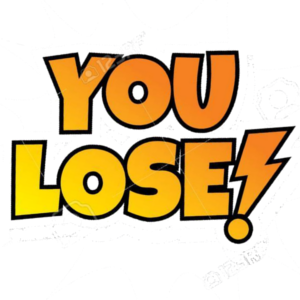
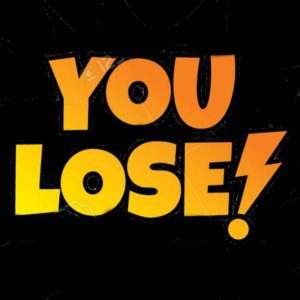
Modification des images win et lose et leur emplacement pour laisser apparaitre le -space to restart-

diff --git a/game.py b/game.py
@@ -58,8 +58,8 @@ def display_map(macinstance):
     obj1 = pygame.image.load("resources/ether.png").convert_alpha()
     obj2 = pygame.image.load("resources/syringe.png").convert_alpha()
     obj3 = pygame.image.load("resources/tube.png").convert_alpha()
-    wini = pygame.image.load("resources/wini.png").convert_alpha()
-    losi = pygame.image.load("resources/losi.png").convert_alpha()
+    wini = pygame.image.load("resources/wini.png").convert()
+    losi = pygame.image.load("resources/losi.png").convert()
     topb = pygame.image.load("resources/topbar.png").convert()
 
     # Loading map from the class Map
@@ -97,9 +97,9 @@ def display_map(macinstance):
         window.blit(obj3, (280, 5))
 
     if win:
-        window.blit(wini, (0, 0))
+        window.blit(wini, (0, 30))
     if los:
-        window.blit(losi, (0, 0))
+        window.blit(losi, (0, 30))
 
 
 def loop():
